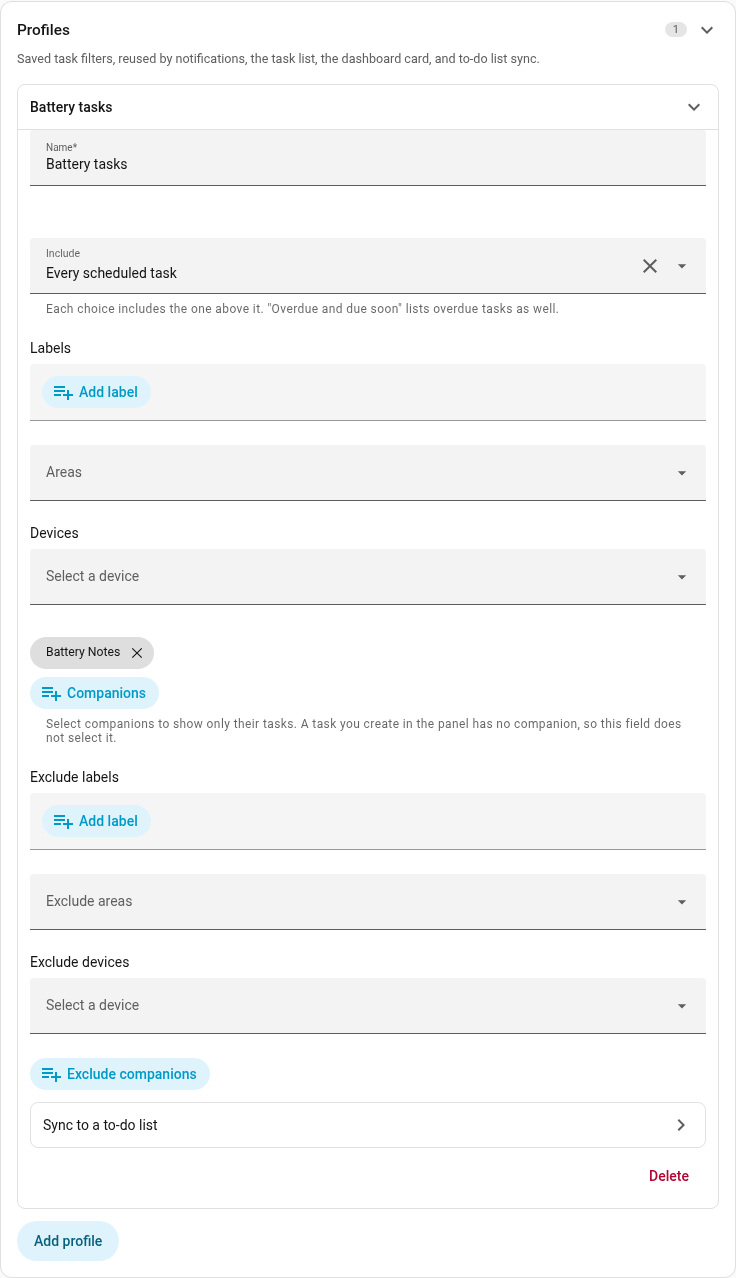
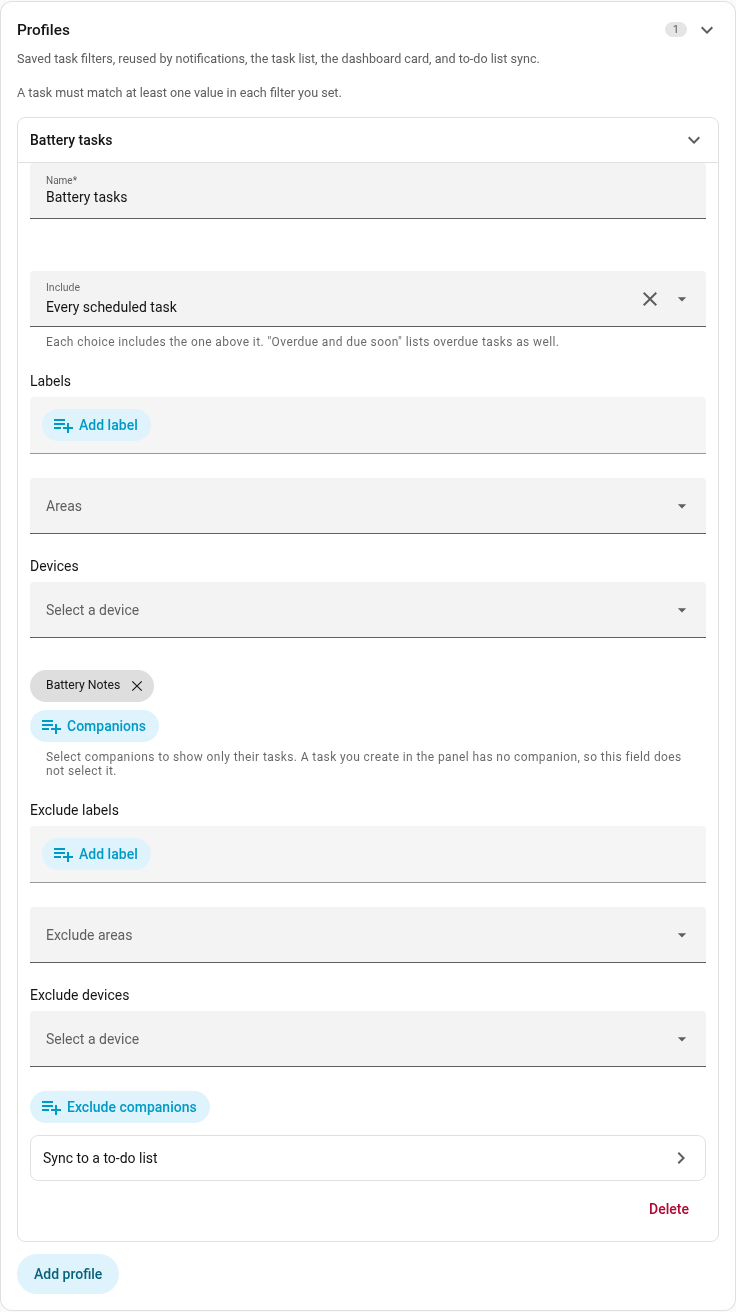
feat(profiles): say in the panel how the filters combine
The Profiles section gains a second intro line: "A task must match at least one
value in each filter you set." One sentence carries both halves of the rule.
"At least one value" is the OR inside a filter, "each filter" is the AND across
them, and "you set" keeps an empty filter out of it, since a profile has 4 and
ignores the ones left blank.

It sits with the section intro rather than under a field, because the rule
governs every filter in every profile below it.

A new `notify.filters_help` key rather than an extension of
`notify.profiles_help`: the parity test checks that a key exists, not that its
value is current, so extending the old one would leave 15 languages silently on
the shorter text. A new key fails that test until every locale has it. All 15
translations are here.

Re-captures docs/images/profile-companion-filter.png, which shows this card.

Claude-Session: https://claude.ai/code/session_01BgrUw9GJch8LgWpsT94xKV

diff --git a/custom_components/home_keeper/frontend/src/panel-settings.ts b/custom_components/home_keeper/frontend/src/panel-settings.ts
@@ -650,6 +650,12 @@ function renderProfiles(p: PanelHost, host: HTMLElement): void {
       count: profiles.length,
     },
     (body) => {
+      // The combination rule governs every filter in every profile below, so it sits
+      // with the section intro rather than under one field.
+      const filters = document.createElement('div');
+      filters.className = 'hk-settings-intro';
+      filters.textContent = t('notify.filters_help');
+      body.appendChild(filters);
       if (!profiles.length) {
         const alert = document.createElement('ha-alert');
         alert.setAttribute('alert-type', 'info');
